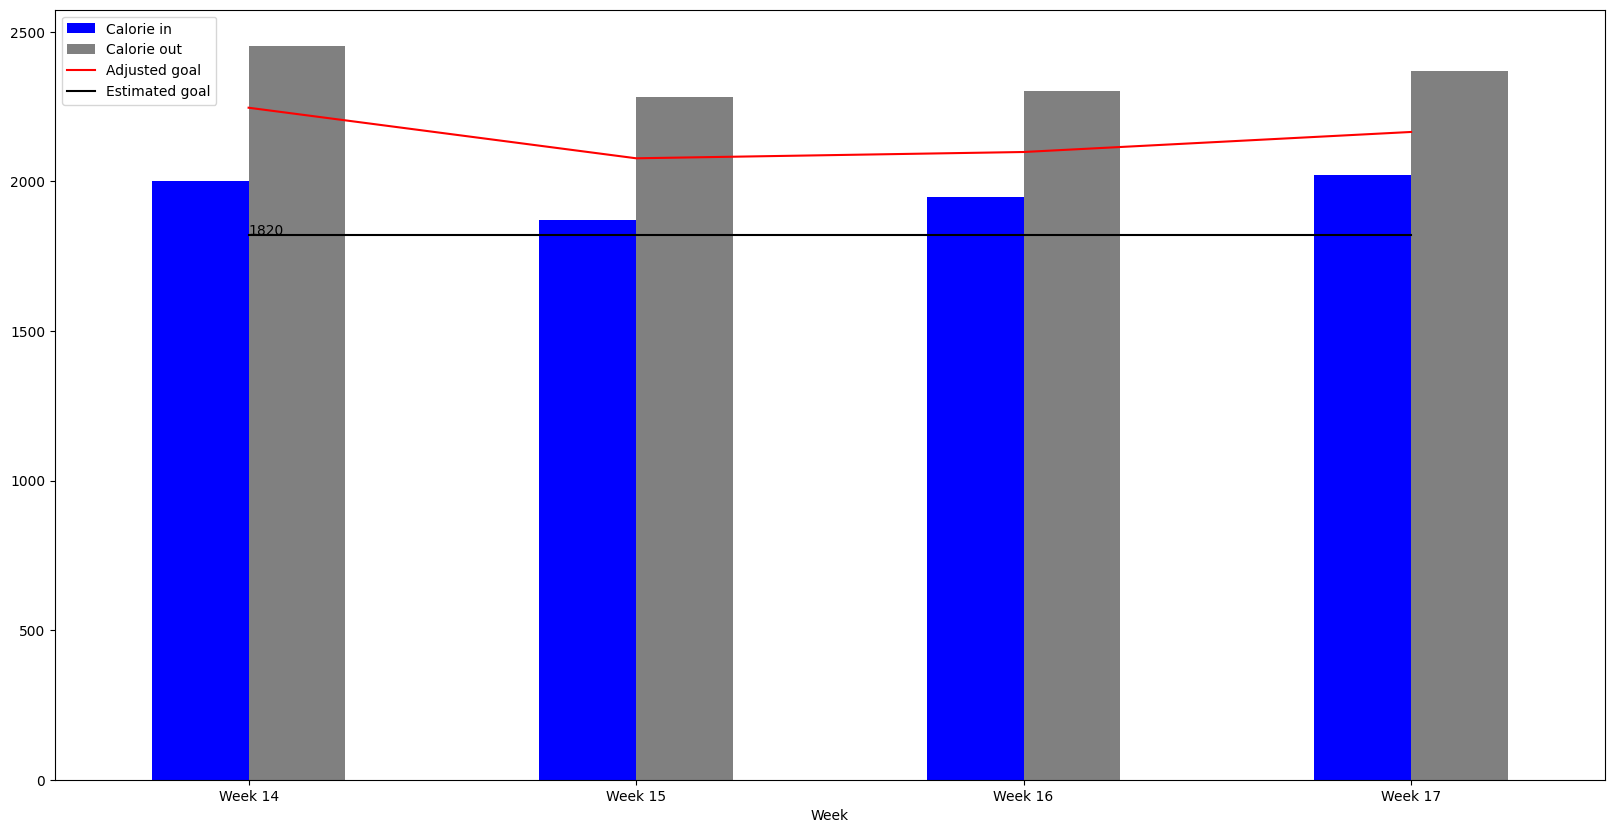
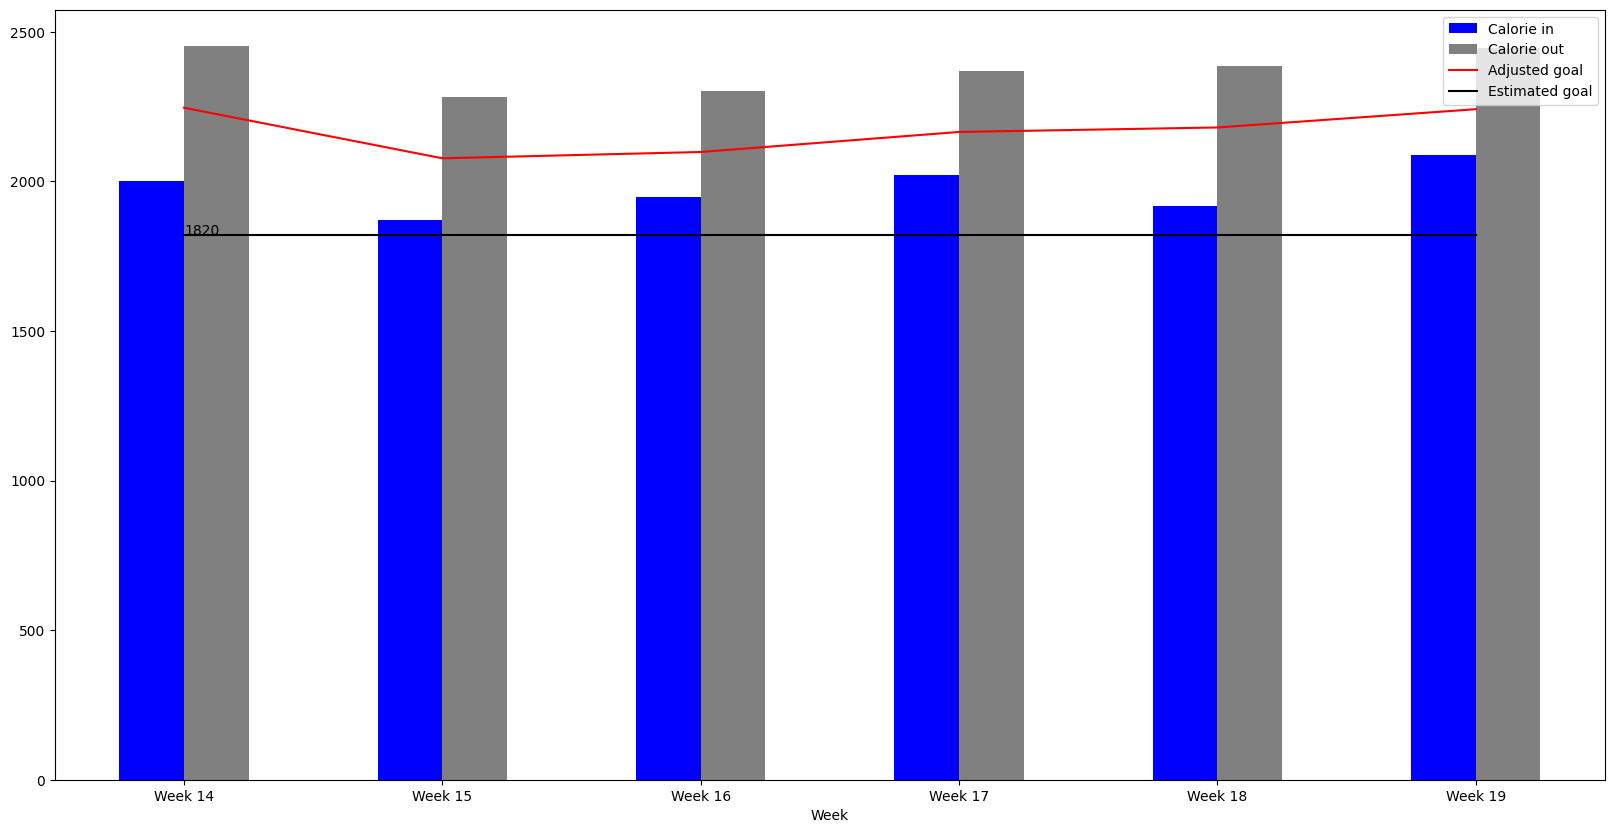
update data (week 19)

diff --git a/scripts/main.py b/scripts/main.py
@@ -55,7 +55,7 @@ WEEKLY_PARAMS = {
         "body_fat": 0.17,
         "deficit": 0.1,
         "start_week": 13,
-        "end_week": 17,
+        "end_week": 19,
     }
 }
 
